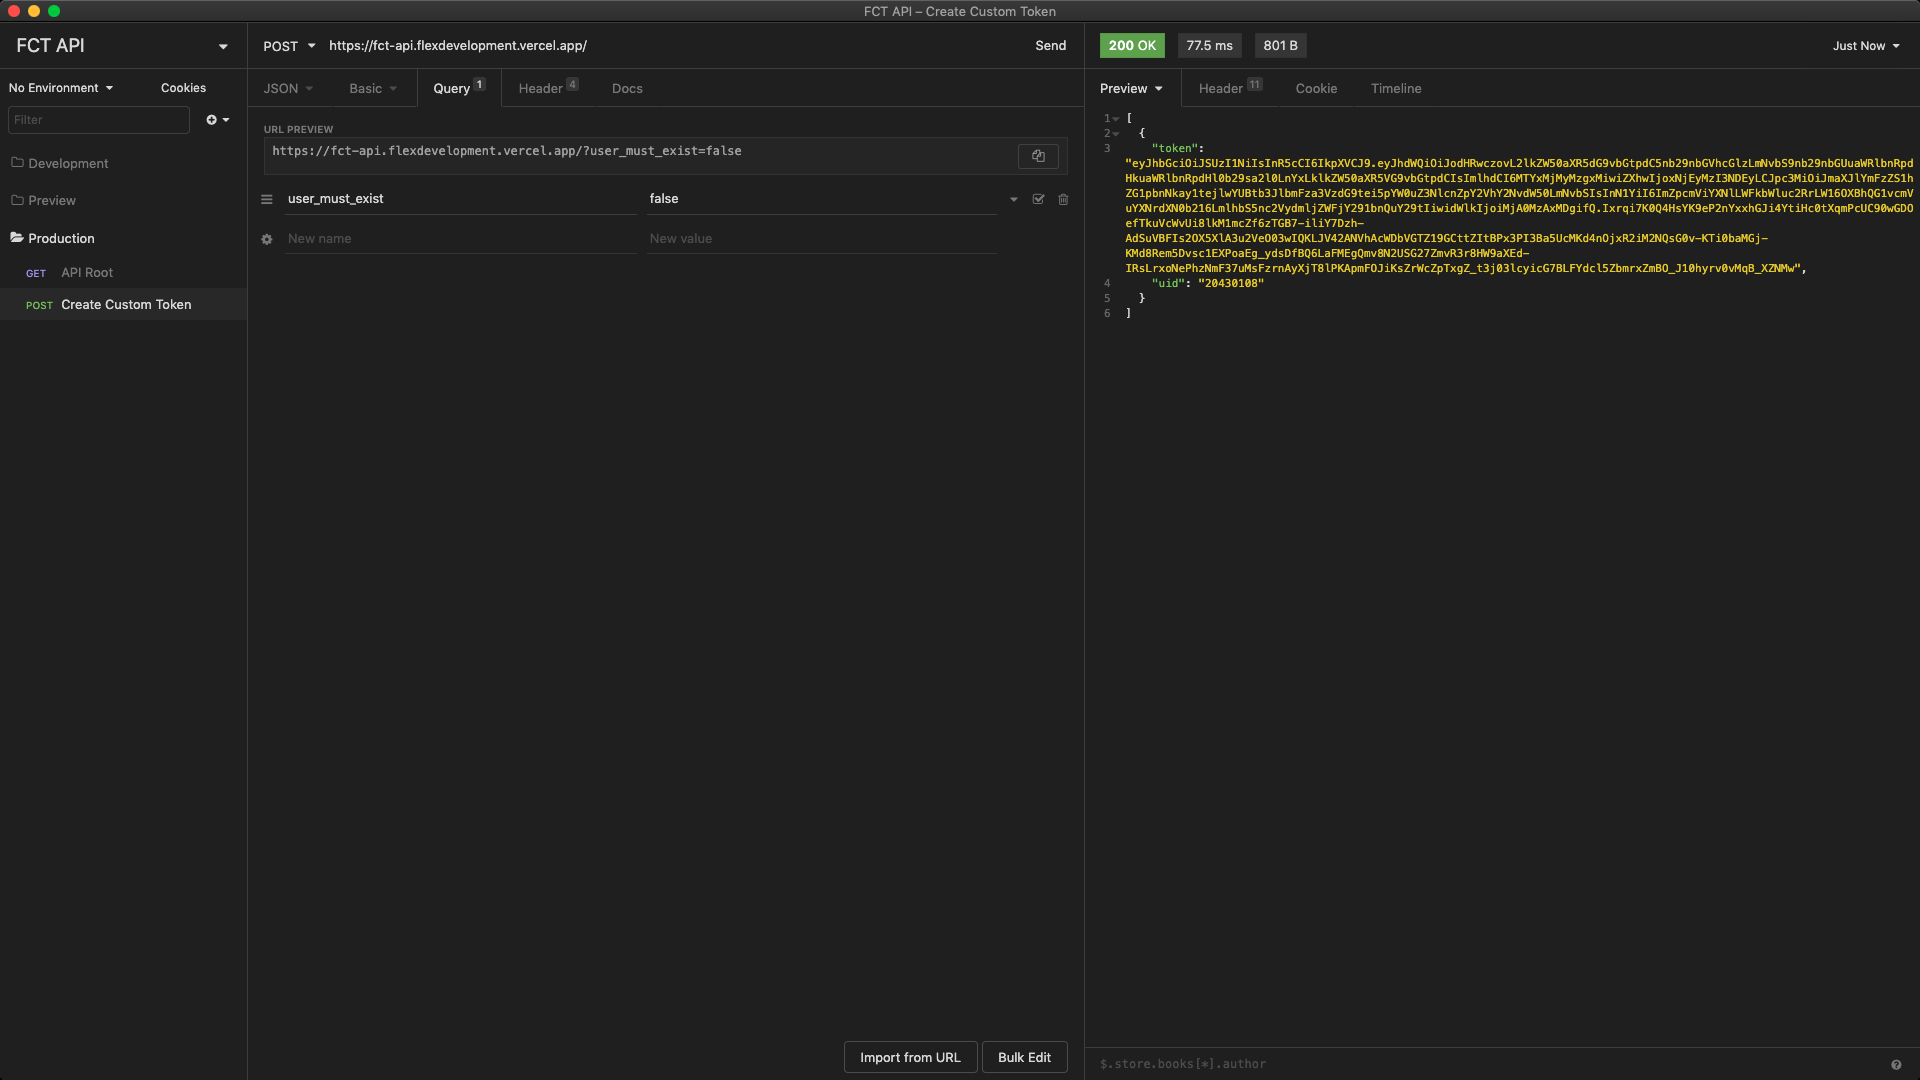
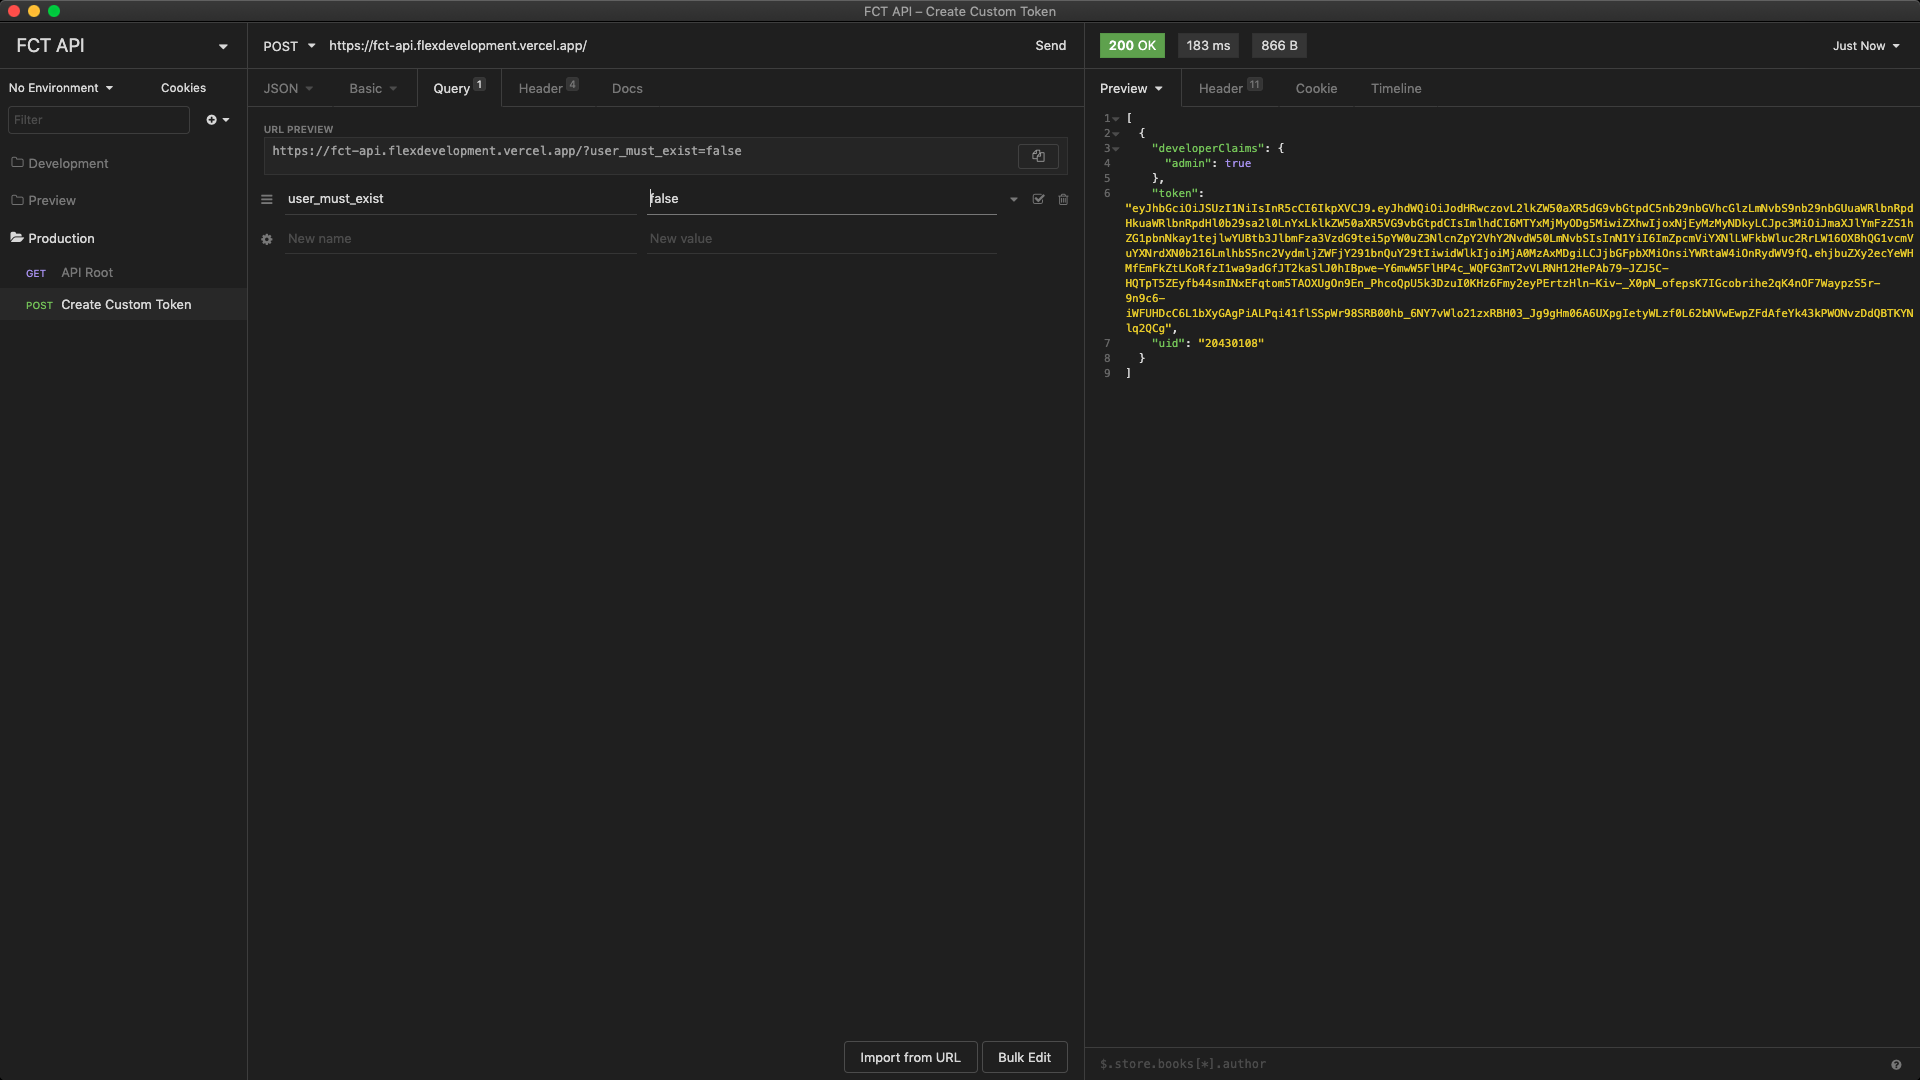
docs: response with custom claims

Changed region(s): [[0.5625, 0.1222, 1.0, 0.3361]]

diff --git a/README.md b/README.md
@@ -83,9 +83,13 @@ Custom claims can also be specified for each user:
 
 ![FCT API - Success Response](./docs/fct-api-response-success.png)
 
+#### With `developerClaims`
+
+![FCT API - Success Response 2](./docs/fct-api-response-success-with-claims.png)
+
 #### With `user_must_exist: false`
 
-![FCT API - Success Response 2](./docs/fct-api-response-success-with-query.png)
+![FCT API - Success Response 3](./docs/fct-api-response-success-with-query.png)
 
 ### Errors
 
